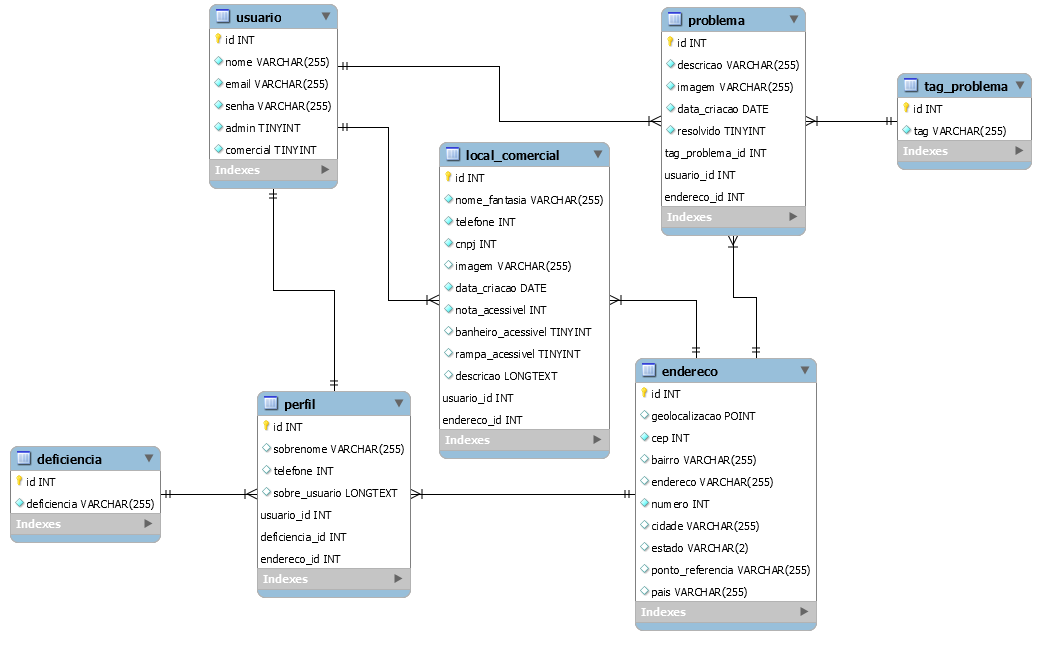
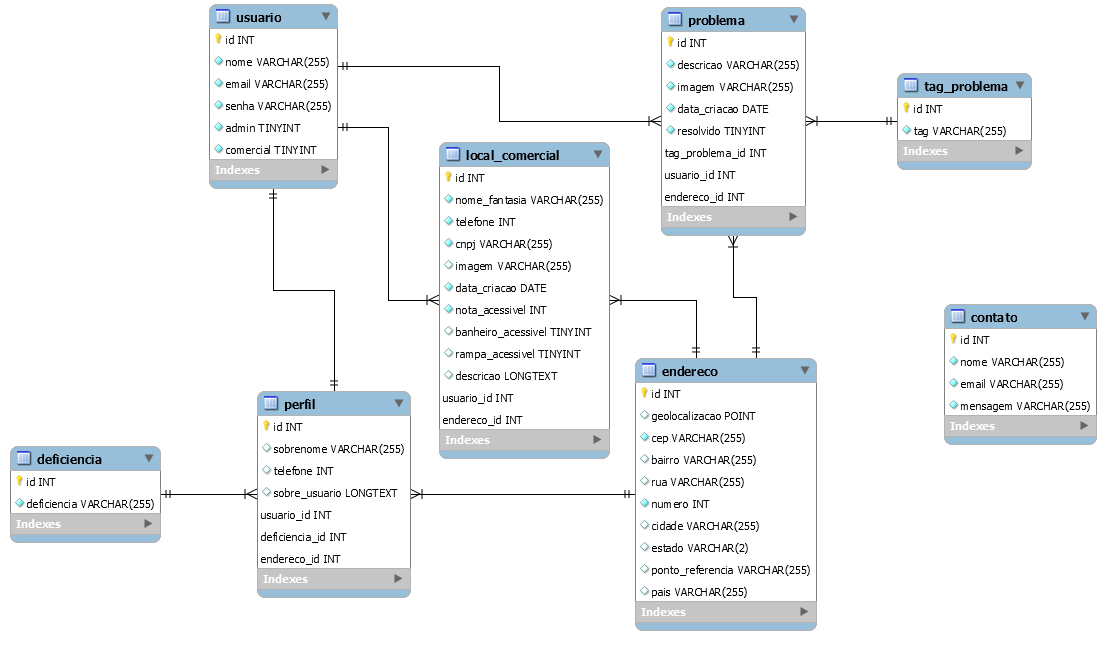
Melhorias nas validações do envio de problema

diff --git a/public/scripts/problemaScript.js b/public/scripts/problemaScript.js
@@ -3,107 +3,149 @@ let radioOutro = document.getElementById('defaultCheck7');
 let radioButton = document.querySelectorAll('input[type=radio]');
 let enviarBotao = document.getElementById('enviarBotao');
 let formProblema = document.querySelectorAll('#formProblema');
-let inputCEP = document.getElementById('inputCEP');
-let inputRua = document.getElementById('inputAddress');
-let inputBairro = document.getElementById('inputBairro');
-let inputCidade = document.getElementById('inputCidade');
-let inputEstado = document.getElementById('inputEstado');
-let alertDanger = document.querySelector('.alert-danger');
+let inputTextarea = document.getElementById('exampleFormControlTextarea1');
+let alertTopo = document.querySelector('.alert');
+let alertaBaixo = document.getElementById('alertaBaixo');
+
+let camposObrigatorios = [
+    document.querySelectorAll('input[type=radio]'),
+    document.getElementById('inputEstado'),
+    document.getElementById('inputCidade'),
+    document.getElementById('inputBairro'),
+    document.getElementById('inputAddress'),
+    document.getElementById('inputCEP'),
+    document.getElementById('inputNumero'),
+]
 
 let urlSearch = new URLSearchParams(window.location.search);
 
+//Alerta confirmando o envio
 if (urlSearch.has('sucesso')) {
-
-    alertDanger.classList.remove('alert-danger');
-    alertDanger.classList.add('alert-success');
-    alertDanger.innerHTML = '<a href="#" class="close" data-dismiss="alert" aria-label="close">&times;</a><strong>Problema enviado com sucesso!</strong> Obrigado por contribuir!'
-
-    alertDanger.classList.remove('d-none');
-
+    alertTopo.classList.add('alert-success');
+    alertTopo.innerHTML += '<strong>Problema enviado com sucesso!</strong> Obrigado por contribuir!'
+    alertTopo.classList.remove('d-none');
 }
 
+//Alerta informando o erro
 if (urlSearch.has('erro')) {
+    alertTopo.classList.add('alert-danger');
     switch (urlSearch.get('erro')) {
         case 'problema':
-            alertDanger.innerHTML += '<strong> Problema selecionado inválido ou não escolhido</strong>';
+            alertTopo.innerHTML += '<strong>Erro!</strong> Problema selecionado inválido ou não escolhido';
             break;
 
         case 'problema-outro':
-            alertDanger.innerHTML += '<strong> Opção "Outro" inválida ou não preenchida</strong>';
+            alertTopo.innerHTML += '<strong>Erro!</strong> Opção "Outro" inválida ou não preenchida';
             break;
             
         case 'descricao':
-            alertDanger.innerHTML += '<strong> Descrição inválida ou não preenchida</strong>';
+            alertTopo.innerHTML += '<strong>Erro!</strong> Descrição inválida ou não preenchida';
             break;
             
         case 'cep':
-            alertDanger.innerHTML += '<strong> CEP inválido ou não preenchido</strong>';
+            alertTopo.innerHTML += '<strong>Erro!</strong> CEP inválido ou não preenchido';
             break;
             
         case 'rua':
-            alertDanger.innerHTML += '<strong> Rua inválida ou não preenchida</strong>';
+            alertTopo.innerHTML += '<strong>Erro!</strong> Rua inválida ou não preenchida';
             break;
             
         case 'numero':
-            alertDanger.innerHTML += '<strong> Número inválido ou não preenchido</strong>';
+            alertTopo.innerHTML += '<strong>Erro!</strong> Número inválido ou não preenchido';
             break;
             
         case 'bairro':
-            alertDanger.innerHTML += '<strong> Bairro inválido ou não preenchido</strong>';
+            alertTopo.innerHTML += '<strong>Erro!</strong> Bairro inválido ou não preenchido';
             break;
             
         case 'cidade':
-            alertDanger.innerHTML += '<strong> CIdade inválida ou não preenchida</strong>';
+            alertTopo.innerHTML += '<strong>Erro!</strong> CIdade inválida ou não preenchida';
             break;
             
         case 'estado':
-            alertDanger.innerHTML += '<strong> Estado inválido ou não preenchido</strong>';
+            alertTopo.innerHTML += '<strong>Erro!</strong> Estado inválido ou não preenchido';
             break;
-            
     }
-
-    alertDanger.classList.remove('d-none');
+    alertTopo.classList.remove('d-none');
 }
+
+//Adicionar evento Keypress nos inputs para remover a cor vermelha
+function mudaCor (elemento) {
+    elemento.addEventListener('keypress', function () {
+        elemento.style.borderColor = '';
+    })
+}
+
+//Se input estiver vázio destaca com vermelho
+function verificaVazio (elemento) {
+    elemento.addEventListener('focusout', function () {
+        if (elemento.value === '') {
+            elemento.style.borderColor = 'red';
+        }
+    })
+}
+
+//Uso de for para maior compatibilidade nos navegadores
+for (let i = 1; i < camposObrigatorios.length; i++) {
+    mudaCor(camposObrigatorios[i]);
+    verificaVazio(camposObrigatorios[i]);
+}
+
+//Caixa do campo Outro
+caixaOutro.addEventListener('focusout', function () {
+    if (radioOutro.checked) {
+        verificaVazio(caixaOutro);
+    }
+})
 
 //Seleciona a opção Outro ao clicar na caixa de texto
 caixaOutro.addEventListener('click', function () {
     radioOutro.click();
 });
 
-//Apaga o valor da caixa de texto caso clique em outra opção diferente de Outro
-//Uso de for para maior compatibilidade nos navegadores
+//Muda cor da caixa Outro ao clicar em outra opção
 for (let i = 0; i < 6; i++) {
     radioButton[i].addEventListener('click', function () {
-        caixaOutro.value = '';
+        caixaOutro.style.borderColor = '';
     });
 };
 
-function limpaCEP () {
-    inputCEP.value = '';
-    inputCEP.style.borderColor = 'red';
-    
-    inputRua.value = 'Ex: Av. Do Estado';
-    inputBairro.value = 'Ex: Bairro da Liberdade';
-    inputCidade.value = 'Ex: São Paulo';
-    inputEstado.value = 'Ex: SP';
+//Apaga o valor da caixa de texto caso clique em outra opção diferente de Outro
+// for (let i = 0; i < 6; i++) {
+//     radioButton[i].addEventListener('click', function () {
+//         caixaOutro.value = '';
+//     });
+// };
 
-    inputRua.setAttribute('disabled', true);
-    inputBairro.setAttribute('disabled', true);
-    inputCidade.setAttribute('disabled', true);
-    inputEstado.setAttribute('disabled', true);
+//Função que limpa a caixa do CEP, destaca em vermelho, retorna os exemplos e bloqueia os demais inputs
+function limpaCEP () {
+    camposObrigatorios[5].value = '';
+    camposObrigatorios[5].style.borderColor = 'red';
+    
+    camposObrigatorios[4].value = 'Ex: Av. Do Estado';
+    camposObrigatorios[3].value = 'Ex: Bairro da Liberdade';
+    camposObrigatorios[2].value = 'Ex: São Paulo';
+    camposObrigatorios[1].value = 'Ex: SP';
+
+    camposObrigatorios[4].setAttribute('disabled', true);
+    camposObrigatorios[3].setAttribute('disabled', true);
+    camposObrigatorios[2].setAttribute('disabled', true);
+    camposObrigatorios[1].setAttribute('disabled', true);
 }
 
 //Valida o CEP e completa endereço por API
-inputCEP.addEventListener('blur', function () {
-    if (inputCEP.value != '') {
-        let validaCEP = /^[0-9]{8}$/;
-        if (validaCEP.test(inputCEP.value)) {
-            inputRua.value = 'Carregando...';
-            inputBairro.value = 'Carregando...';
-            inputCidade.value = 'Carregando...';
-            inputEstado.value = 'Carregando...';
+camposObrigatorios[5].addEventListener('blur', function () {
+    let valorCEP = camposObrigatorios[5].value.replace(/\D/g, '');
 
-            fetch('https://viacep.com.br/ws/' + inputCEP.value + '/json/')
+    if (valorCEP != '') {
+        let validaCEP = /^[0-9]{8}$/;
+        if (validaCEP.test(valorCEP)) {
+            camposObrigatorios[4].value = 'Carregando...';
+            camposObrigatorios[3].value = 'Carregando...';
+            camposObrigatorios[2].value = 'Carregando...';
+            camposObrigatorios[1].value = 'Carregando...';
+
+            fetch('https://viacep.com.br/ws/' + valorCEP + '/json/')
                 .then(function (resultado) {
                     return resultado.json();
                 })
@@ -111,16 +153,16 @@ inputCEP.addEventListener('blur', function () {
                     if (!resultadoJSON.erro) {
 
                         //Preenche os dados
-                        inputRua.value = resultadoJSON.logradouro;
-                        inputBairro.value = resultadoJSON.bairro;
-                        inputCidade.value = resultadoJSON.localidade;
-                        inputEstado.value = resultadoJSON.uf;
+                        camposObrigatorios[4].value = resultadoJSON.logradouro;
+                        camposObrigatorios[3].value = resultadoJSON.bairro;
+                        camposObrigatorios[2].value = resultadoJSON.localidade;
+                        camposObrigatorios[1].value = resultadoJSON.uf;
                         
                         //Desbloqueia os campos
-                        inputRua.removeAttribute('disabled');
-                        inputBairro.removeAttribute('disabled');
-                        inputCidade.removeAttribute('disabled');
-                        inputEstado.removeAttribute('disabled');
+                        camposObrigatorios[4].removeAttribute('disabled');
+                        camposObrigatorios[3].removeAttribute('disabled');
+                        camposObrigatorios[2].removeAttribute('disabled');
+                        camposObrigatorios[1].removeAttribute('disabled');
                         
                     } else {
                         limpaCEP();
@@ -129,33 +171,34 @@ inputCEP.addEventListener('blur', function () {
         } else {
             limpaCEP();
         }
-
     } else {
         limpaCEP();
     }
-    
-
 });
+
 
 //Verifica se todos os campos com required foram preenchidos, caso positivo abre modal
 enviarBotao.addEventListener("click", function () {
     let campoPreenchido = true;
 
     //Verifica se os campos estão vazios
-    for (let i=0; i < formProblema[0].length; i++) {
-        if (formProblema[0][i].type != 'radio' && formProblema[0][i].type != 'button' && 
-            formProblema[0][i].type != 'file' && formProblema[0][i].type != 'submit' &&
-            formProblema[0][i].required == true && formProblema[0][i].value == '') {
-            
-            campoPreenchido = false;
-            
-            //Destaca os campos vazios
-            formProblema[0][i].style.borderColor = 'red';
-        };
-    }
-
+    // for (let i = 0; i < camposObrigatorios[0].length; i++) {
+    //     if (camposObrigatorios[0][i].checked === true) {
+    //         //Verifica demais campos além do radio
+    //         for (let i = 1; i < camposObrigatorios.length; i++) {
+    //             if (camposObrigatorios[i].value === '') {
+    //                 campoPreenchido = false;
+    //             }
+    //         }
+    //     }
+    //     campoPreenchido = false;
+    // }
+    
     if (campoPreenchido) {
-        //Removido data-target="#exampleModal" do butão de enviar
+        //Removido data-target="#exampleModal" do botão de enviar
         window.$("#exampleModal").modal('show');
+    } else {
+        alertaBaixo.innerHTML += '<strong>Erro!</strong> Algumas informações estão faltando!'
+        alertaBaixo.classList.remove('d-none');
     };
   });

diff --git a/controllers/enviarProblemaController.js b/controllers/enviarProblemaController.js
@@ -1,4 +1,3 @@
-
 const problema_old = require('../model_problema_old');
 const {Problema, Endereco, Tag_problema} = require('../models');
 
@@ -29,7 +28,7 @@ const enviarProblemaController = {
             foto = req.files[0].filename;
         }
 
-        const {problema, problema_outro, descricao, cep, endereco, numero, bairro, cidade, estado, referencia} = req.body;
+        const {problema, problema_outro, descricao, cep, rua, numero, bairro, cidade, estado, referencia} = req.body;
 
         //Validação dos dados
         if (typeof(problema.trim()) !== 'string' || problema.trim() === '') {
@@ -49,7 +48,7 @@ const enviarProblemaController = {
             res.redirect('/enviarproblema?erro=cep')
         }
 
-        if (typeof(endereco.trim()) !== 'string' || endereco.trim() === '') {
+        if (typeof(rua.trim()) !== 'string' || rua.trim() === '') {
             res.redirect('/enviarproblema?erro=rua')
         }
 
@@ -64,7 +63,7 @@ const enviarProblemaController = {
         if (typeof(cidade.trim()) !== 'string' || cidade.trim() === '') {
             res.redirect('/enviarproblema?erro=cidade')
         }
-        
+
         if (typeof(estado.trim()) !== 'string' || estado.trim() === '') {
             res.redirect('/enviarproblema?erro=estado')
         }
@@ -107,7 +106,7 @@ const enviarProblemaController = {
             geolocalizacao: point,
             cep,
             bairro,
-            endereco,
+            rua,
             numero,
             cidade,
             estado,

diff --git a/teste_consulta_db.js b/teste_consulta_db.js
@@ -1,4 +1,4 @@
-const {Deficiencia, Endereco, Local_comercial, Perfil, Problema, Tag_problema, Usuario} = require('./models');
+const {Deficiencia, Endereco, Local_comercial, Perfil, Problema, Tag_problema, Usuario, Contato} = require('./models');
 
 // Deficiencia.findAll().then(valor => console.log(valor));
 // Endereco.findAll().then(valor => console.log(valor));
@@ -7,4 +7,5 @@ const {Deficiencia, Endereco, Local_comercial, Perfil, Problema, Tag_problema, U
 // Problema.findAll().then(valor => console.log(valor));
 // Tag_problema.findAll().then(valor => console.log(valor));
 // Usuario.findAll().then(valor => console.log(valor));
+// Contato.findAll().then(valor => console.log(valor));
 

diff --git a/models/contato.js b/models/contato.js
@@ -17,7 +17,7 @@ module.exports = (sequelize, DataTypes) => {
     },
     mensagem: {
       allowNull: false,
-      type: DataTypes.STRING
+      type: DataTypes.TEXT
     }
   }, {
     tableName: 'contato'

diff --git a/migrations/20200602211629-create-contato.js b/migrations/20200602211629-create-contato.js
@@ -18,7 +18,7 @@ module.exports = {
       },
       mensagem: {
         allowNull: true,
-        type: Sequelize.STRING
+        type: Sequelize.TEXT
       },
       createdAt: {
         allowNull: false,
